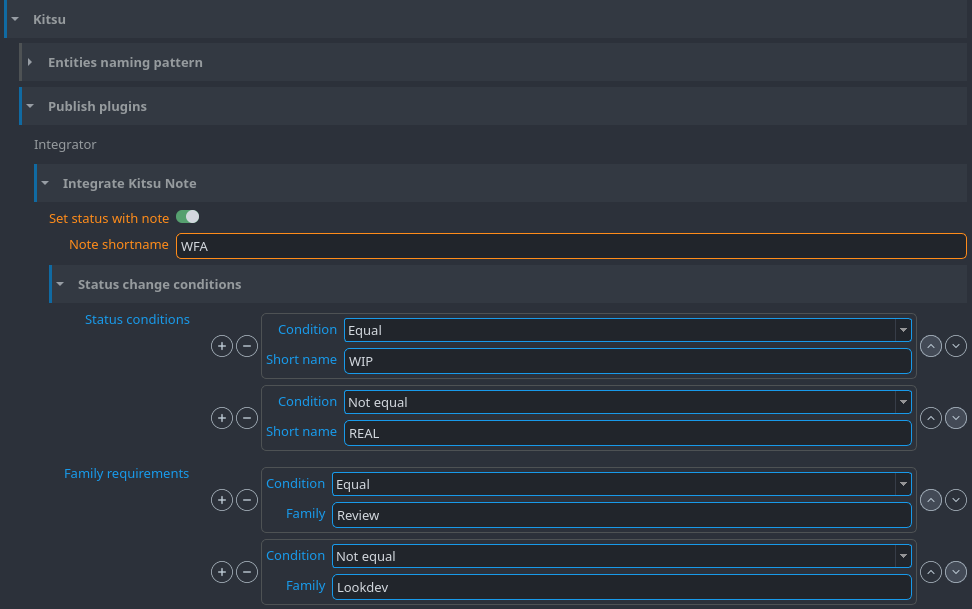
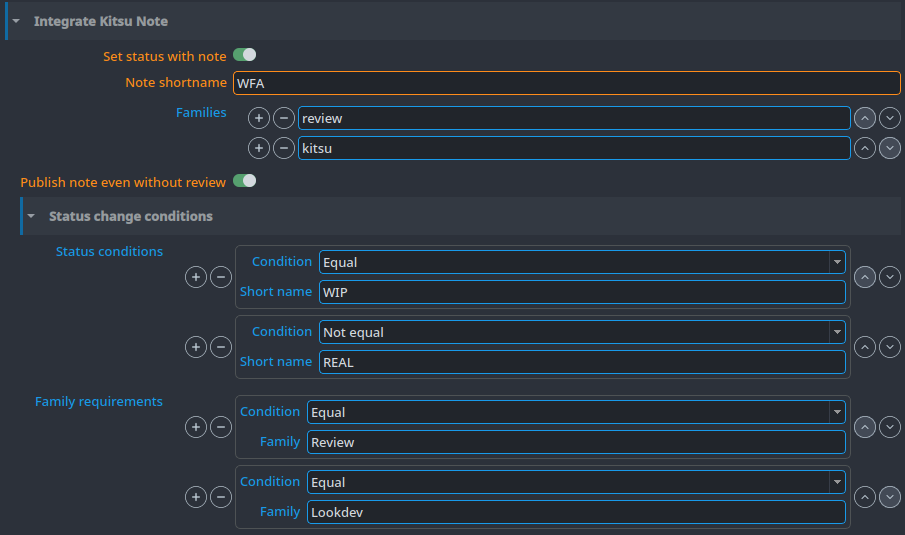
kitsu note families settings, fix always publish note

diff --git a/openpype/modules/kitsu/plugins/publish/integrate_kitsu_note.py b/openpype/modules/kitsu/plugins/publish/integrate_kitsu_note.py
@@ -55,7 +55,11 @@ class IntegrateKitsuNote(pyblish.api.ContextPlugin):
             # Allow a match to primary family or any of families
             families = set([instance.data["family"]] +
                            instance.data.get("families", []))
-            if not self.always_publish_note and "review" not in families:
+            if (
+                not self.always_publish_note
+                and "review" not in families
+                or not instance.data.get('publish')
+            ):
                 continue
 
             kitsu_task = instance.data.get("kitsu_task")

diff --git a/website/docs/module_kitsu.md b/website/docs/module_kitsu.md
@@ -43,9 +43,11 @@ Task status can be automatically set during publish thanks to `Integrate Kitsu N
 
 `Admin -> Studio Settings -> Project Settings -> Kitsu -> Integrate Kitsu Note`.
 
-There are four settings available:
+There are six settings available:
 - `Set status on note` -> Turns on and off this integrator.
 - `Note shortname` -> Which status shortname should be set automatically (Case sensitive).
+- `Families` -> List of families for which this integrator will be run.
+- `Publish note even without review` -> If true, publishing a review is not required to publish a kitsu note.
 - `Status change conditions - Status conditions` -> Conditions that need to be met for kitsu status to be changed. You can add as many conditions as you like. There are two fields to each conditions: `Condition` (Whether current status should be equal or not equal to the condition status) and `Short name` (Kitsu Shortname of the condition status).
 - `Status change conditions - Family requirements` -> With this option you can add requirements to which families must be pushed or not in order to have the task status set by this integrator. There are two fields for each requirements: `Condition` (Same as the above) and `Family` (name of the family concerned by this requirement). For instance, adding one item set to `Not equal` and `workfile`, would mean the task status would change if a subset from another family than workfile is published (workfile can still be included), but not if you publish the workfile subset only.
 
